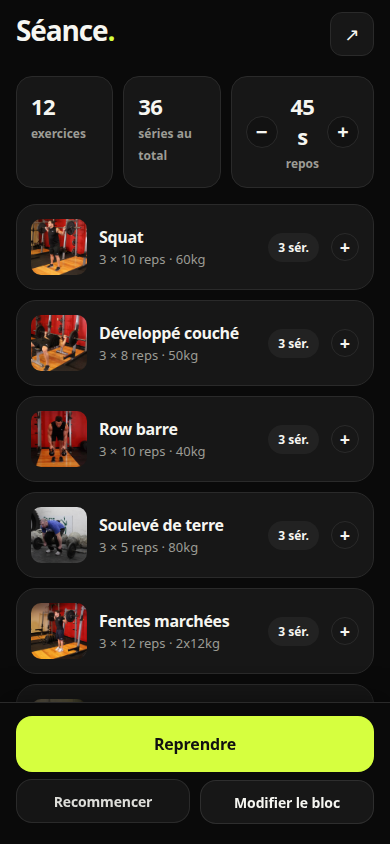
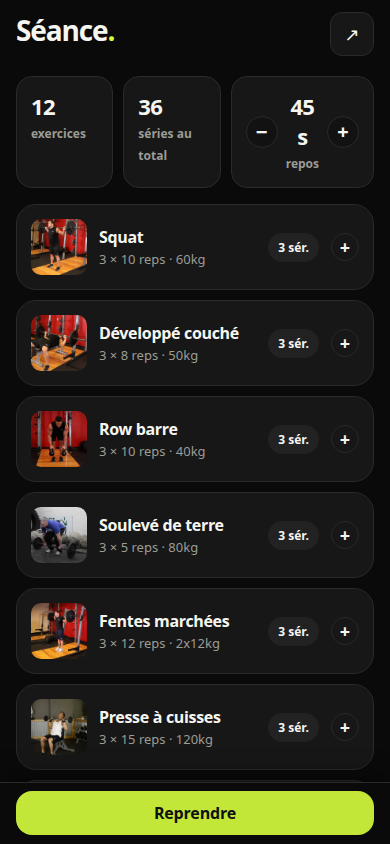
fix: compact mobile overview sticky to primary only
On Aperçu mobile, keep a single-row sticky Démarrer/Reprendre
(~60px + safe-area) and leave secondary ghosts in the list flow.
Desktop keeps the full sticky bar with secondaries.

Changed region(s): [[0.0308, 0.8318, 0.9846, 1.0]]

diff --git a/src/index.css b/src/index.css
@@ -1798,12 +1798,33 @@ input[type='number']:focus {
     );
   }
 
-  /* Overview / done: primary + secondary row (same chrome as session sticky) */
+  /*
+   * Overview mobile: compact single-row primary (~56–64px + safe-area).
+   * Secondaries stay in .overview-secondary-flow above the spacer.
+   */
+  .overview-actions {
+    gap: 0;
+    /* ~60px chrome (8 + 44 + 8) + device safe-area */
+    --sticky-pad-bottom: max(8px, var(--safe-b));
+    padding: 8px var(--space-4) var(--sticky-pad-bottom);
+  }
+
+  .overview-actions .session-sticky-secondary {
+    display: none;
+  }
+
+  .overview-actions .session-sticky-primary {
+    margin: 0;
+  }
+
+  .overview-actions .session-sticky-primary .btn-primary {
+    min-height: 44px;
+    font-size: 16px;
+  }
+
   .overview-sticky-spacer,
   .actions-sticky-spacer.overview-sticky-spacer {
-    height: calc(
-      var(--tap) + 44px + var(--space-2) + var(--space-3) + max(20px, var(--safe-b)) + var(--space-3)
-    );
+    height: calc(8px + 44px + max(8px, var(--safe-b)) + var(--space-2));
   }
 
   /* Stack DEPART/FIN full-width so landscape shots can grow with flex height */
@@ -1863,7 +1884,12 @@ input[type='number']:focus {
   /*
    * Overview (and done) scroll the page — keep a fixed thumb-zone bar
    * on desktop too, with a spacer so the last card stays reachable.
+   * Desktop overview keeps the full primary + secondary sticky chrome.
    */
+  .overview-secondary-flow {
+    display: none;
+  }
+
   .actions-sticky-spacer.overview-sticky-spacer {
     display: block;
     height: calc(

diff --git a/src/components/OverviewScreen.tsx b/src/components/OverviewScreen.tsx
@@ -179,6 +179,39 @@ export function OverviewScreen({
 
       <p className="hint audio-hint">{getAudioMuteHint()}</p>
 
+      {/* Mobile: secondaries stay in the list flow; desktop hides this (sticky has them). */}
+      <div className="actions overview-secondary-flow">
+        {midSession ? (
+          <>
+            <button
+              type="button"
+              className="btn btn-ghost"
+              onClick={() => {
+                unlockAudio();
+                onStart();
+              }}
+            >
+              Recommencer
+            </button>
+            <button
+              type="button"
+              className="btn btn-ghost"
+              onClick={() => setState((prev) => ({ ...prev, screen: 'input' }))}
+            >
+              Modifier le bloc
+            </button>
+          </>
+        ) : (
+          <button
+            type="button"
+            className="btn btn-ghost"
+            onClick={() => setState((prev) => ({ ...prev, screen: 'input' }))}
+          >
+            Modifier le bloc
+          </button>
+        )}
+      </div>
+
       <StickyActionsSpacer className="overview-sticky-spacer" />
       <StickyActionsBar
         className="overview-actions"
@@ -204,7 +237,7 @@ export function OverviewScreen({
                   onStart();
                 }}
               >
-                Commencer
+                Démarrer
               </button>
             )}
           </div>

diff --git a/docs/screenshots/preview/README.md b/docs/screenshots/preview/README.md
@@ -4,7 +4,7 @@ Captures for the overview (Aperçu) sticky primary action.
 
 | File | Viewport | State |
 |------|----------|-------|
-| `*-start.png` | 390×844, 375×667, 1280×720 | Long list, Commencer |
+| `*-start.png` | 390×844, 375×667, 1280×720 | Long list, Démarrer (mobile: barre compacte) |
 | `390x844-resume.png` | 390×844 | Mid-session, Reprendre |
 
 Generated with `node scripts/capture-preview.mjs before|after`.
